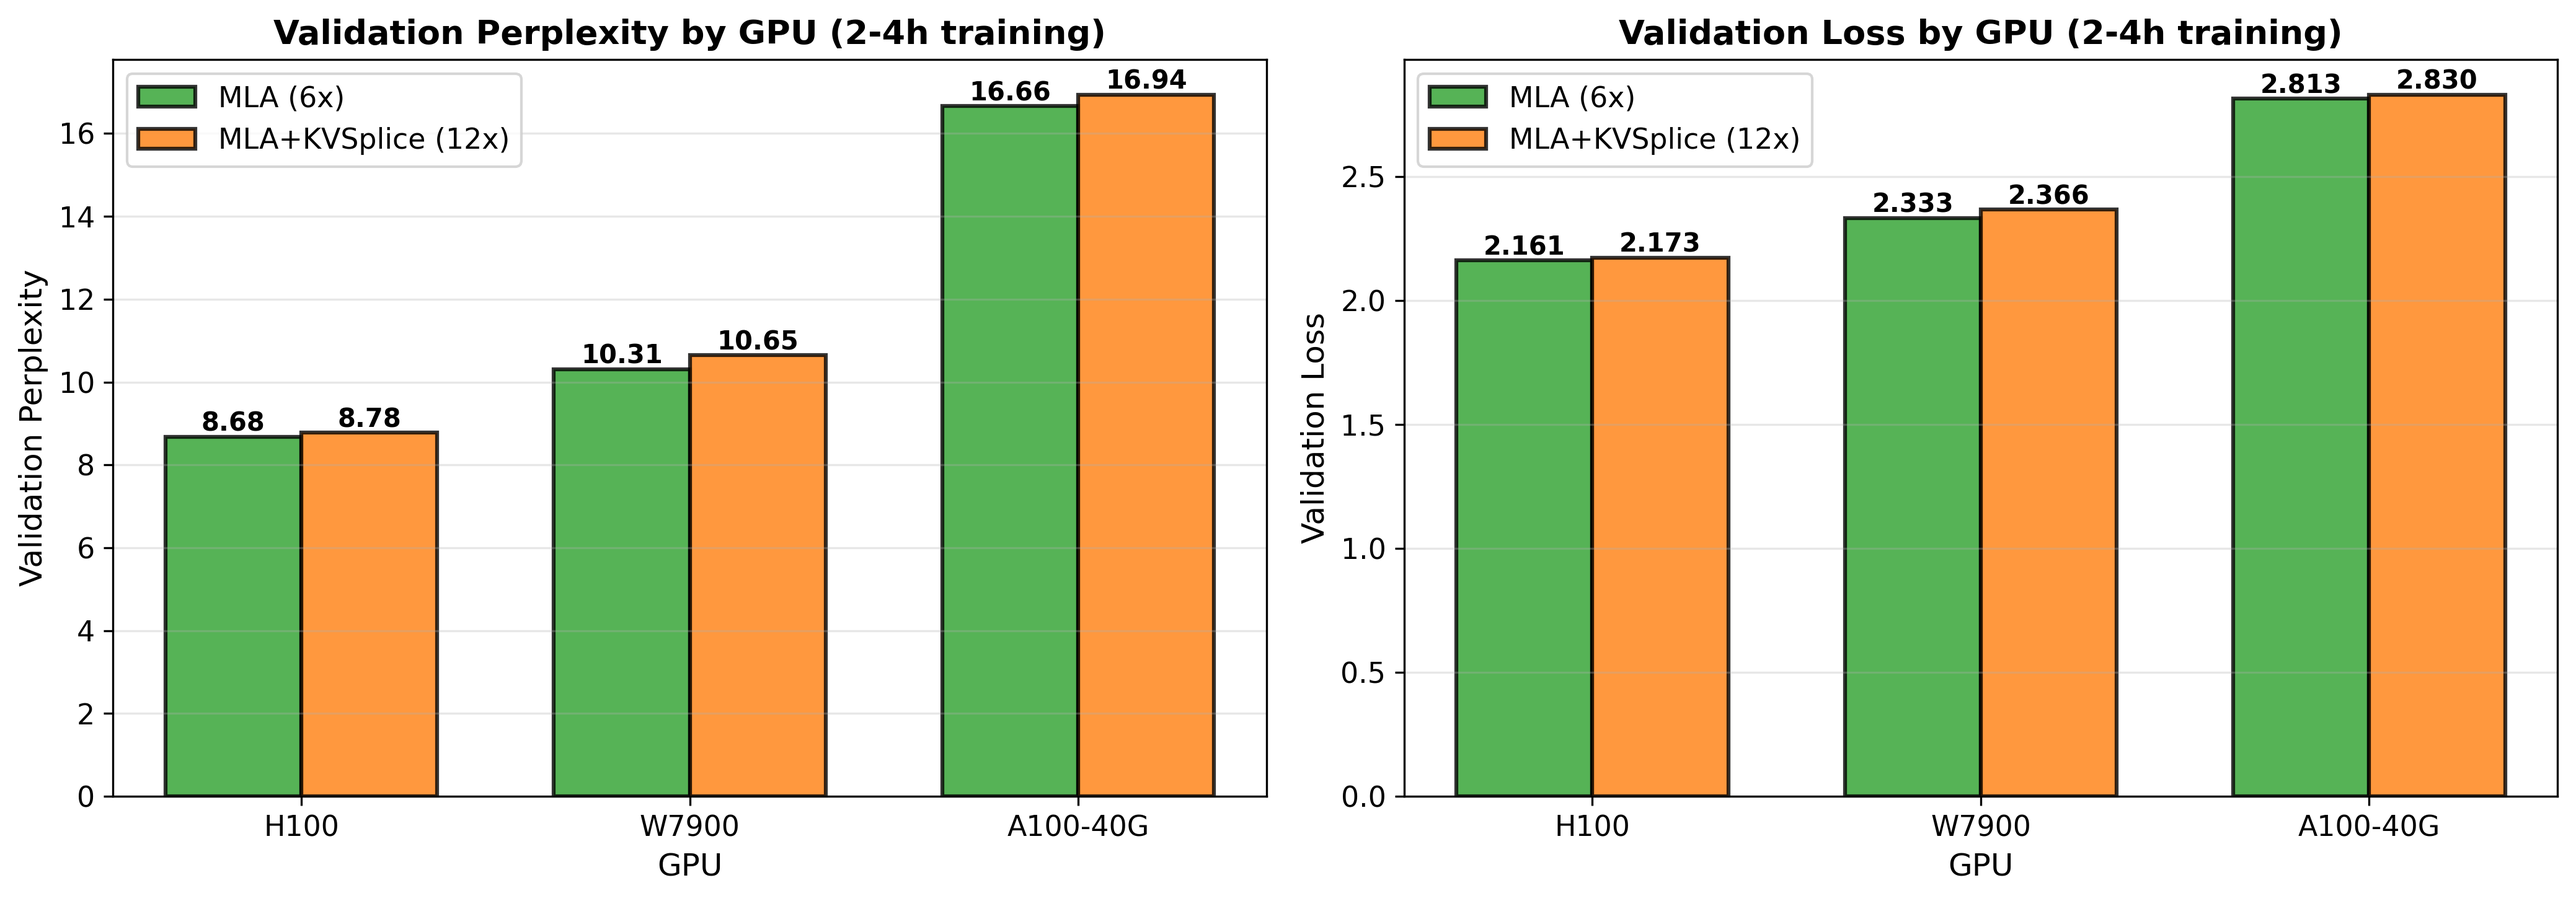
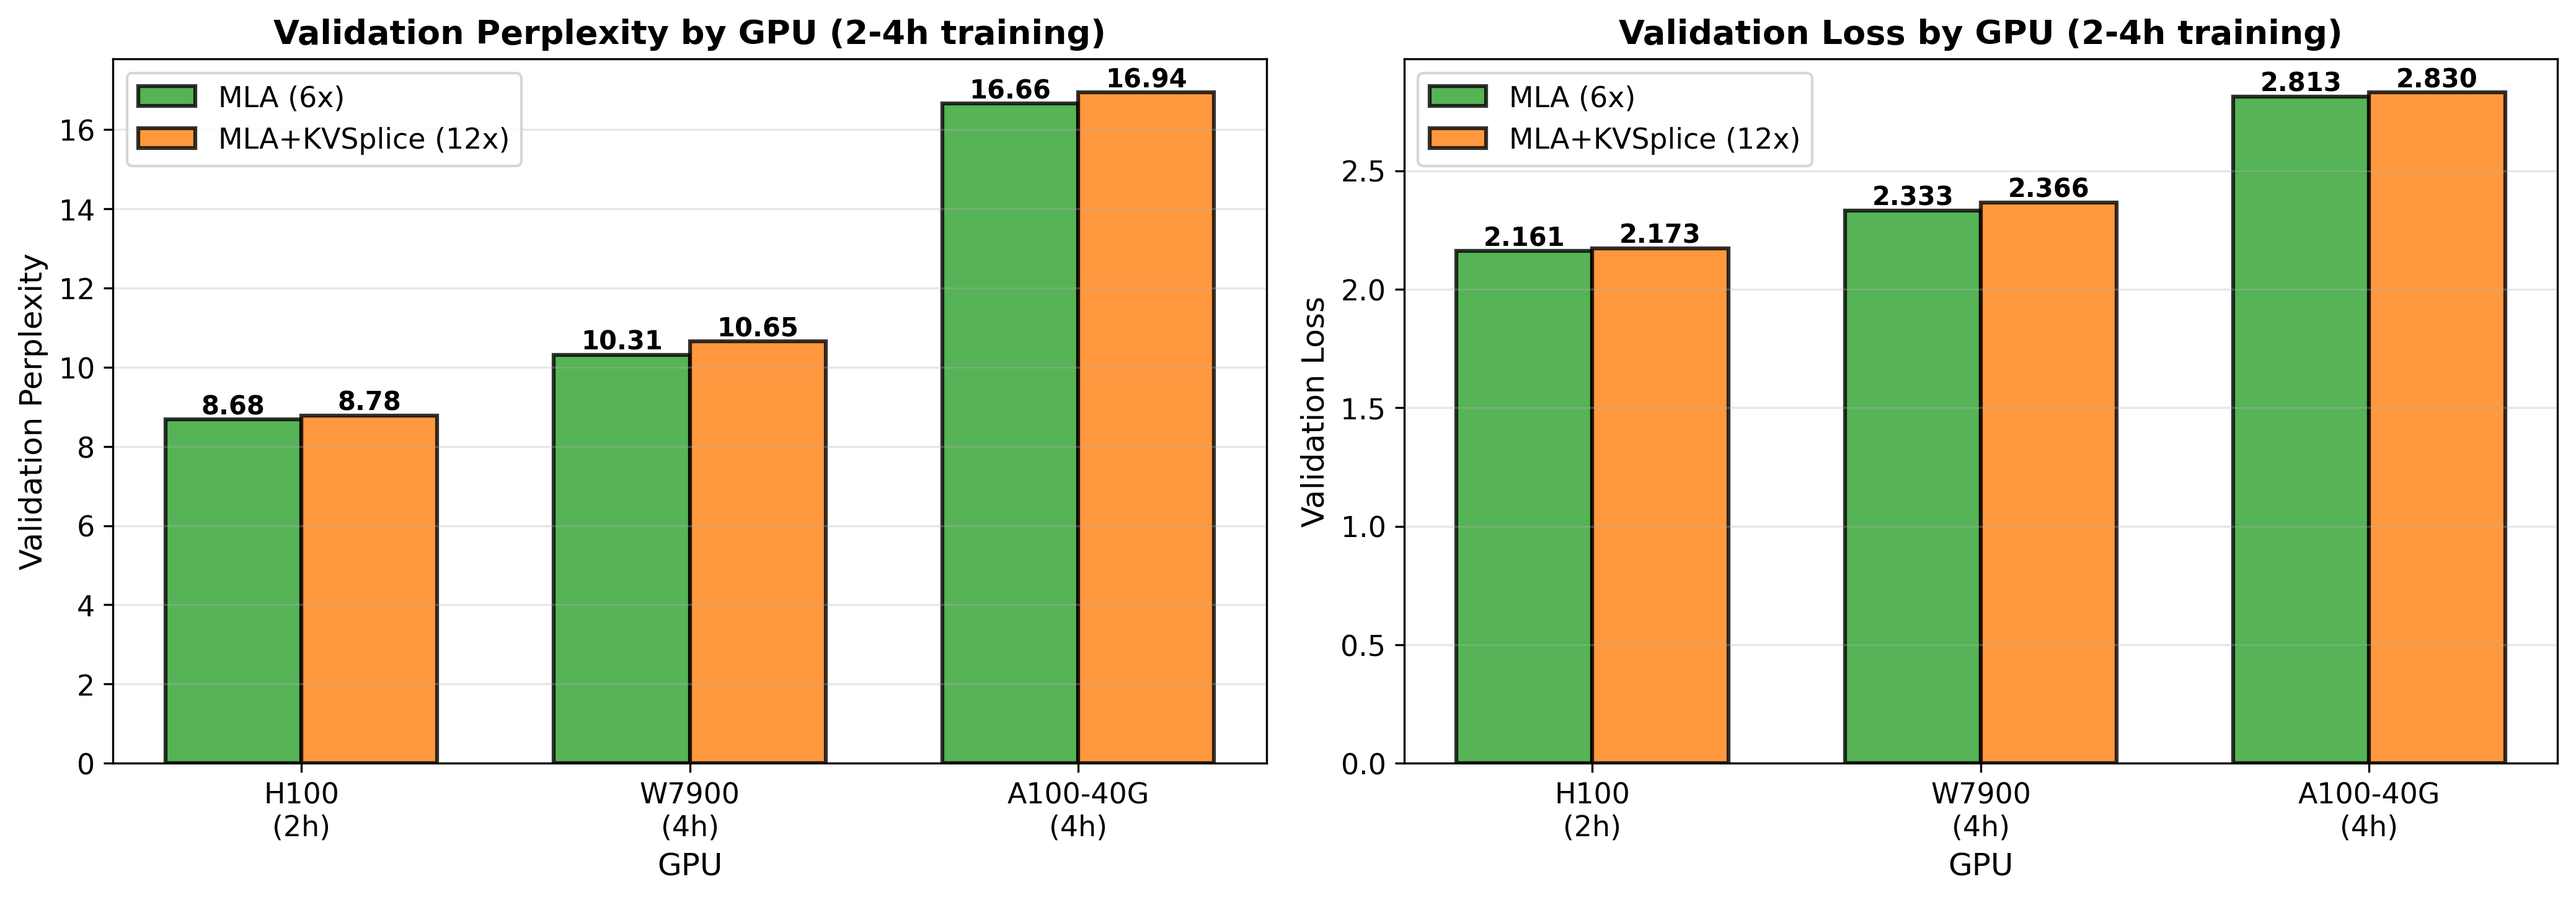
plot_gpu_training_comparison.py: clarify training time in labels
The plot title showing "2-4h training" was misleading because
different GPUs had different training durations. H100 ran for
2 hours while W7900 and A100-40G each ran for 4 hours.

Updated GPU labels to explicitly show training time for each
GPU: "H100 (2h)", "W7900 (4h)", and "A100-40G (4h)". This
eliminates ambiguity and allows readers to see at a glance
which GPUs ran for how long. Regenerated both comparison plots
with the updated labels.

Generated-by: Claude AI

diff --git a/scripts/plot_gpu_training_comparison.py b/scripts/plot_gpu_training_comparison.py
@@ -18,7 +18,7 @@ plt.rcParams.update(
 )
 
 # Data from GPU comparison results
-gpus = ["H100", "W7900", "A100-40G"]
+gpus = ["H100\n(2h)", "W7900\n(4h)", "A100-40G\n(4h)"]
 mla_ppl = [8.68, 10.31, 16.66]
 kvsplice_ppl = [8.78, 10.65, 16.94]
 mla_loss = [2.161, 2.333, 2.813]
